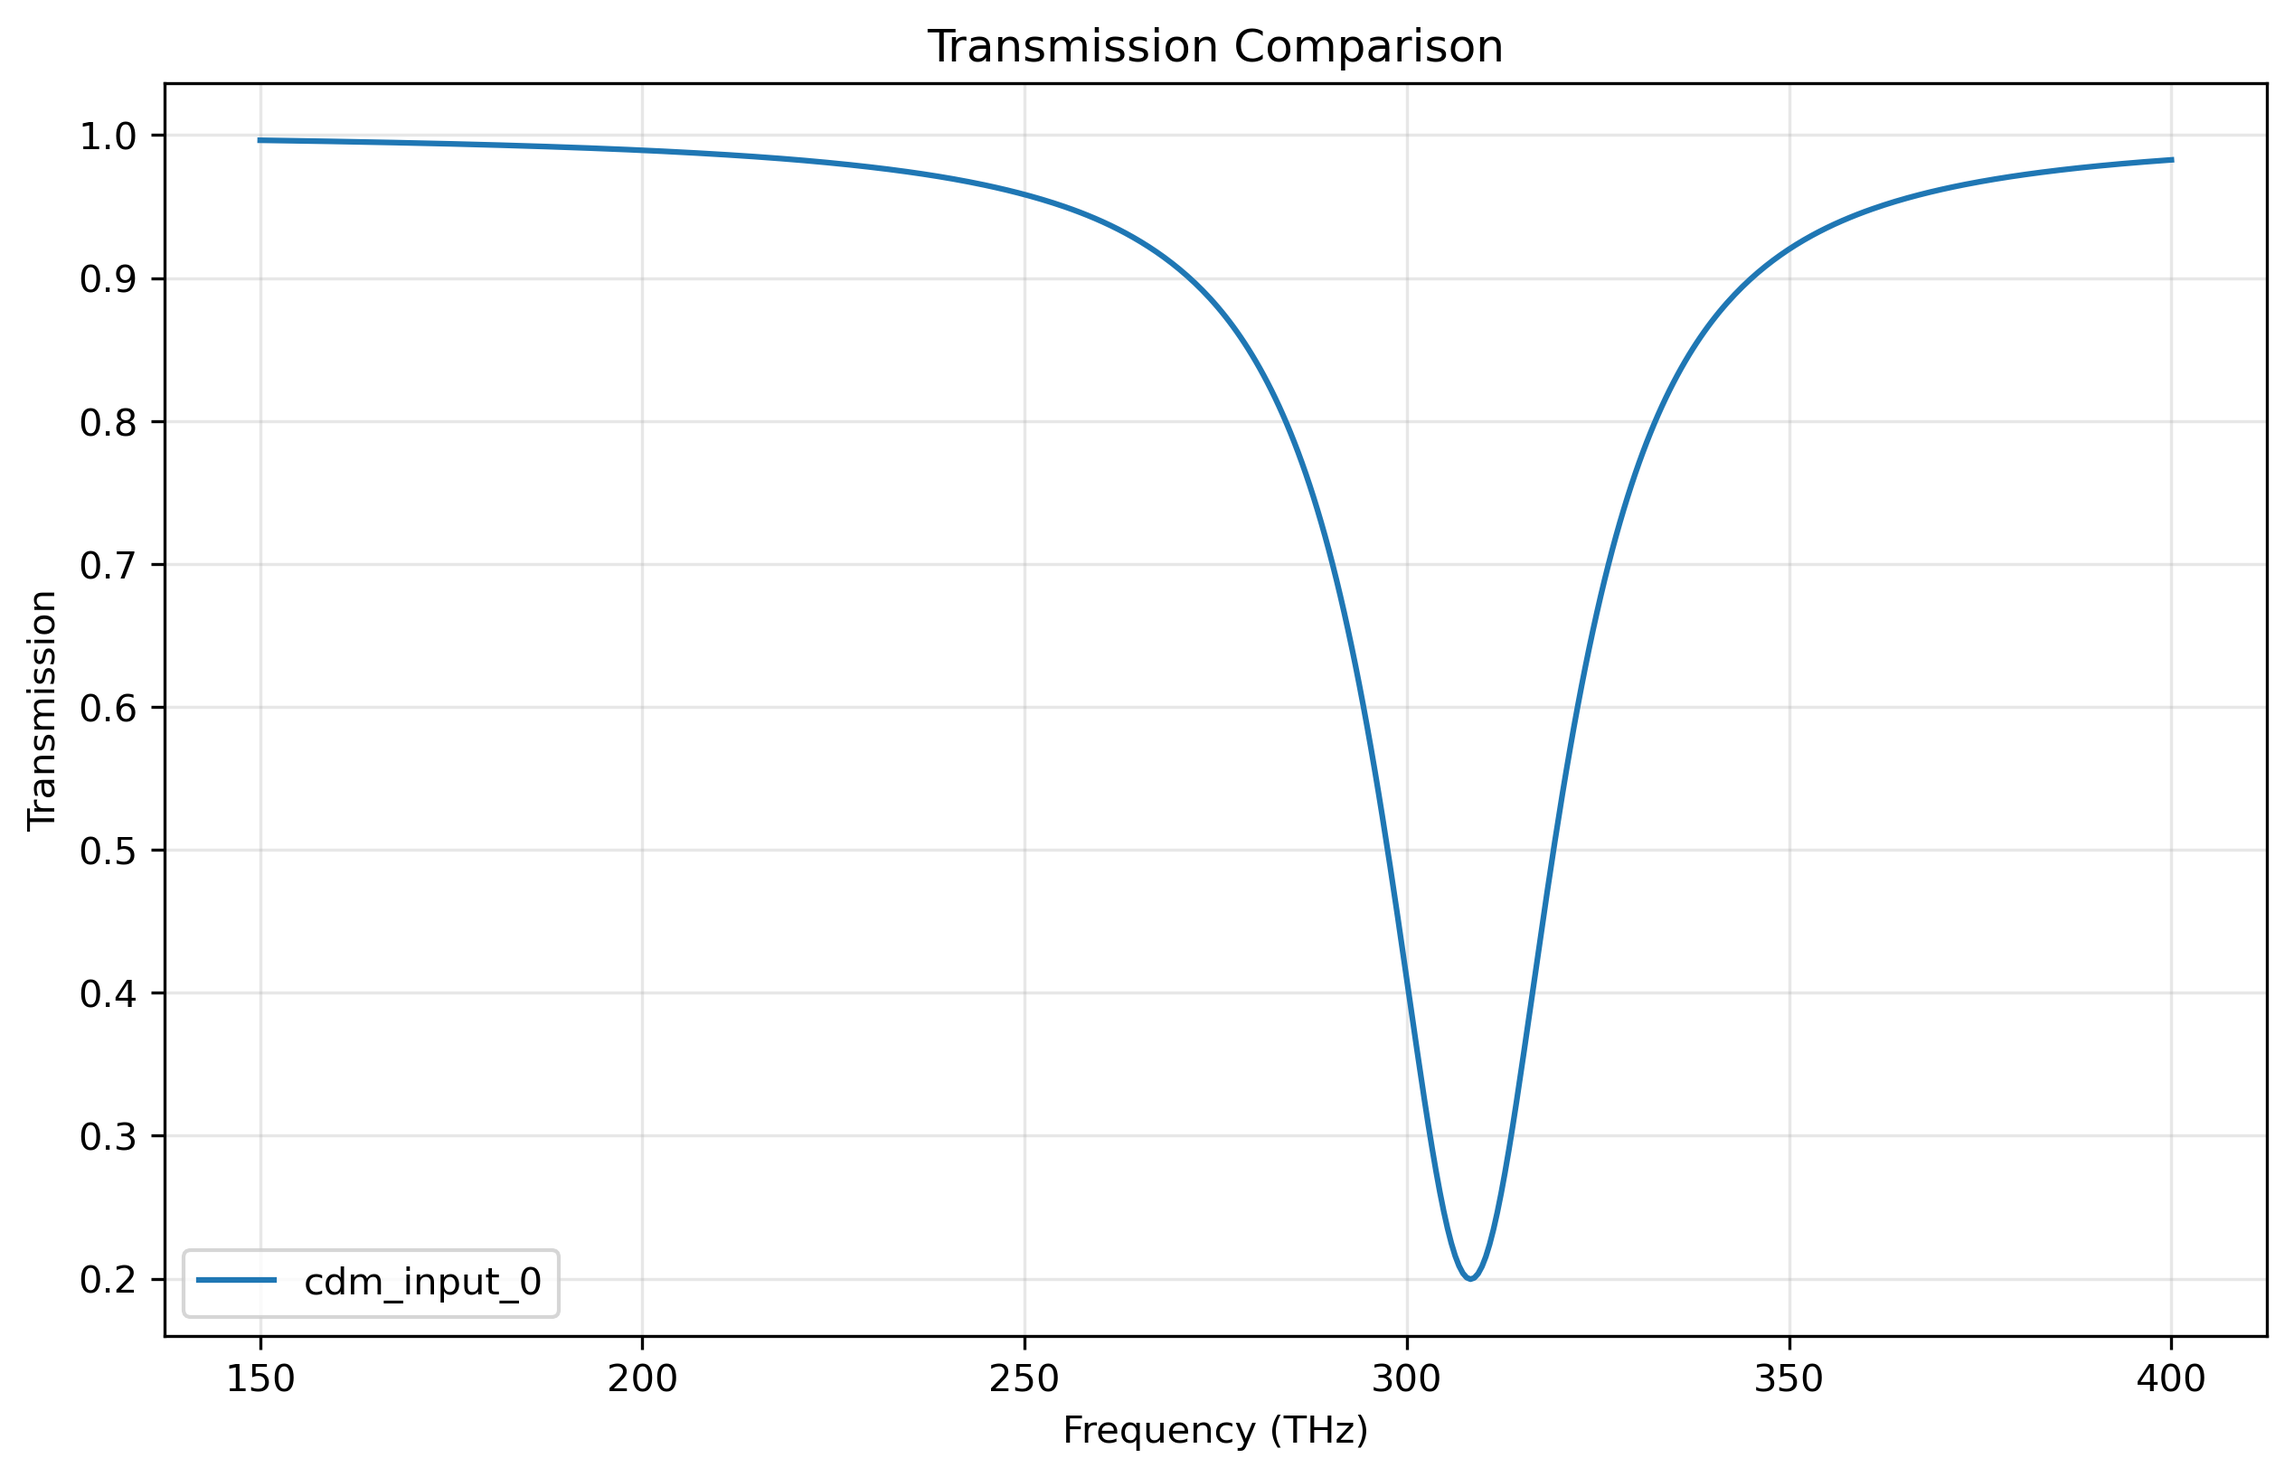
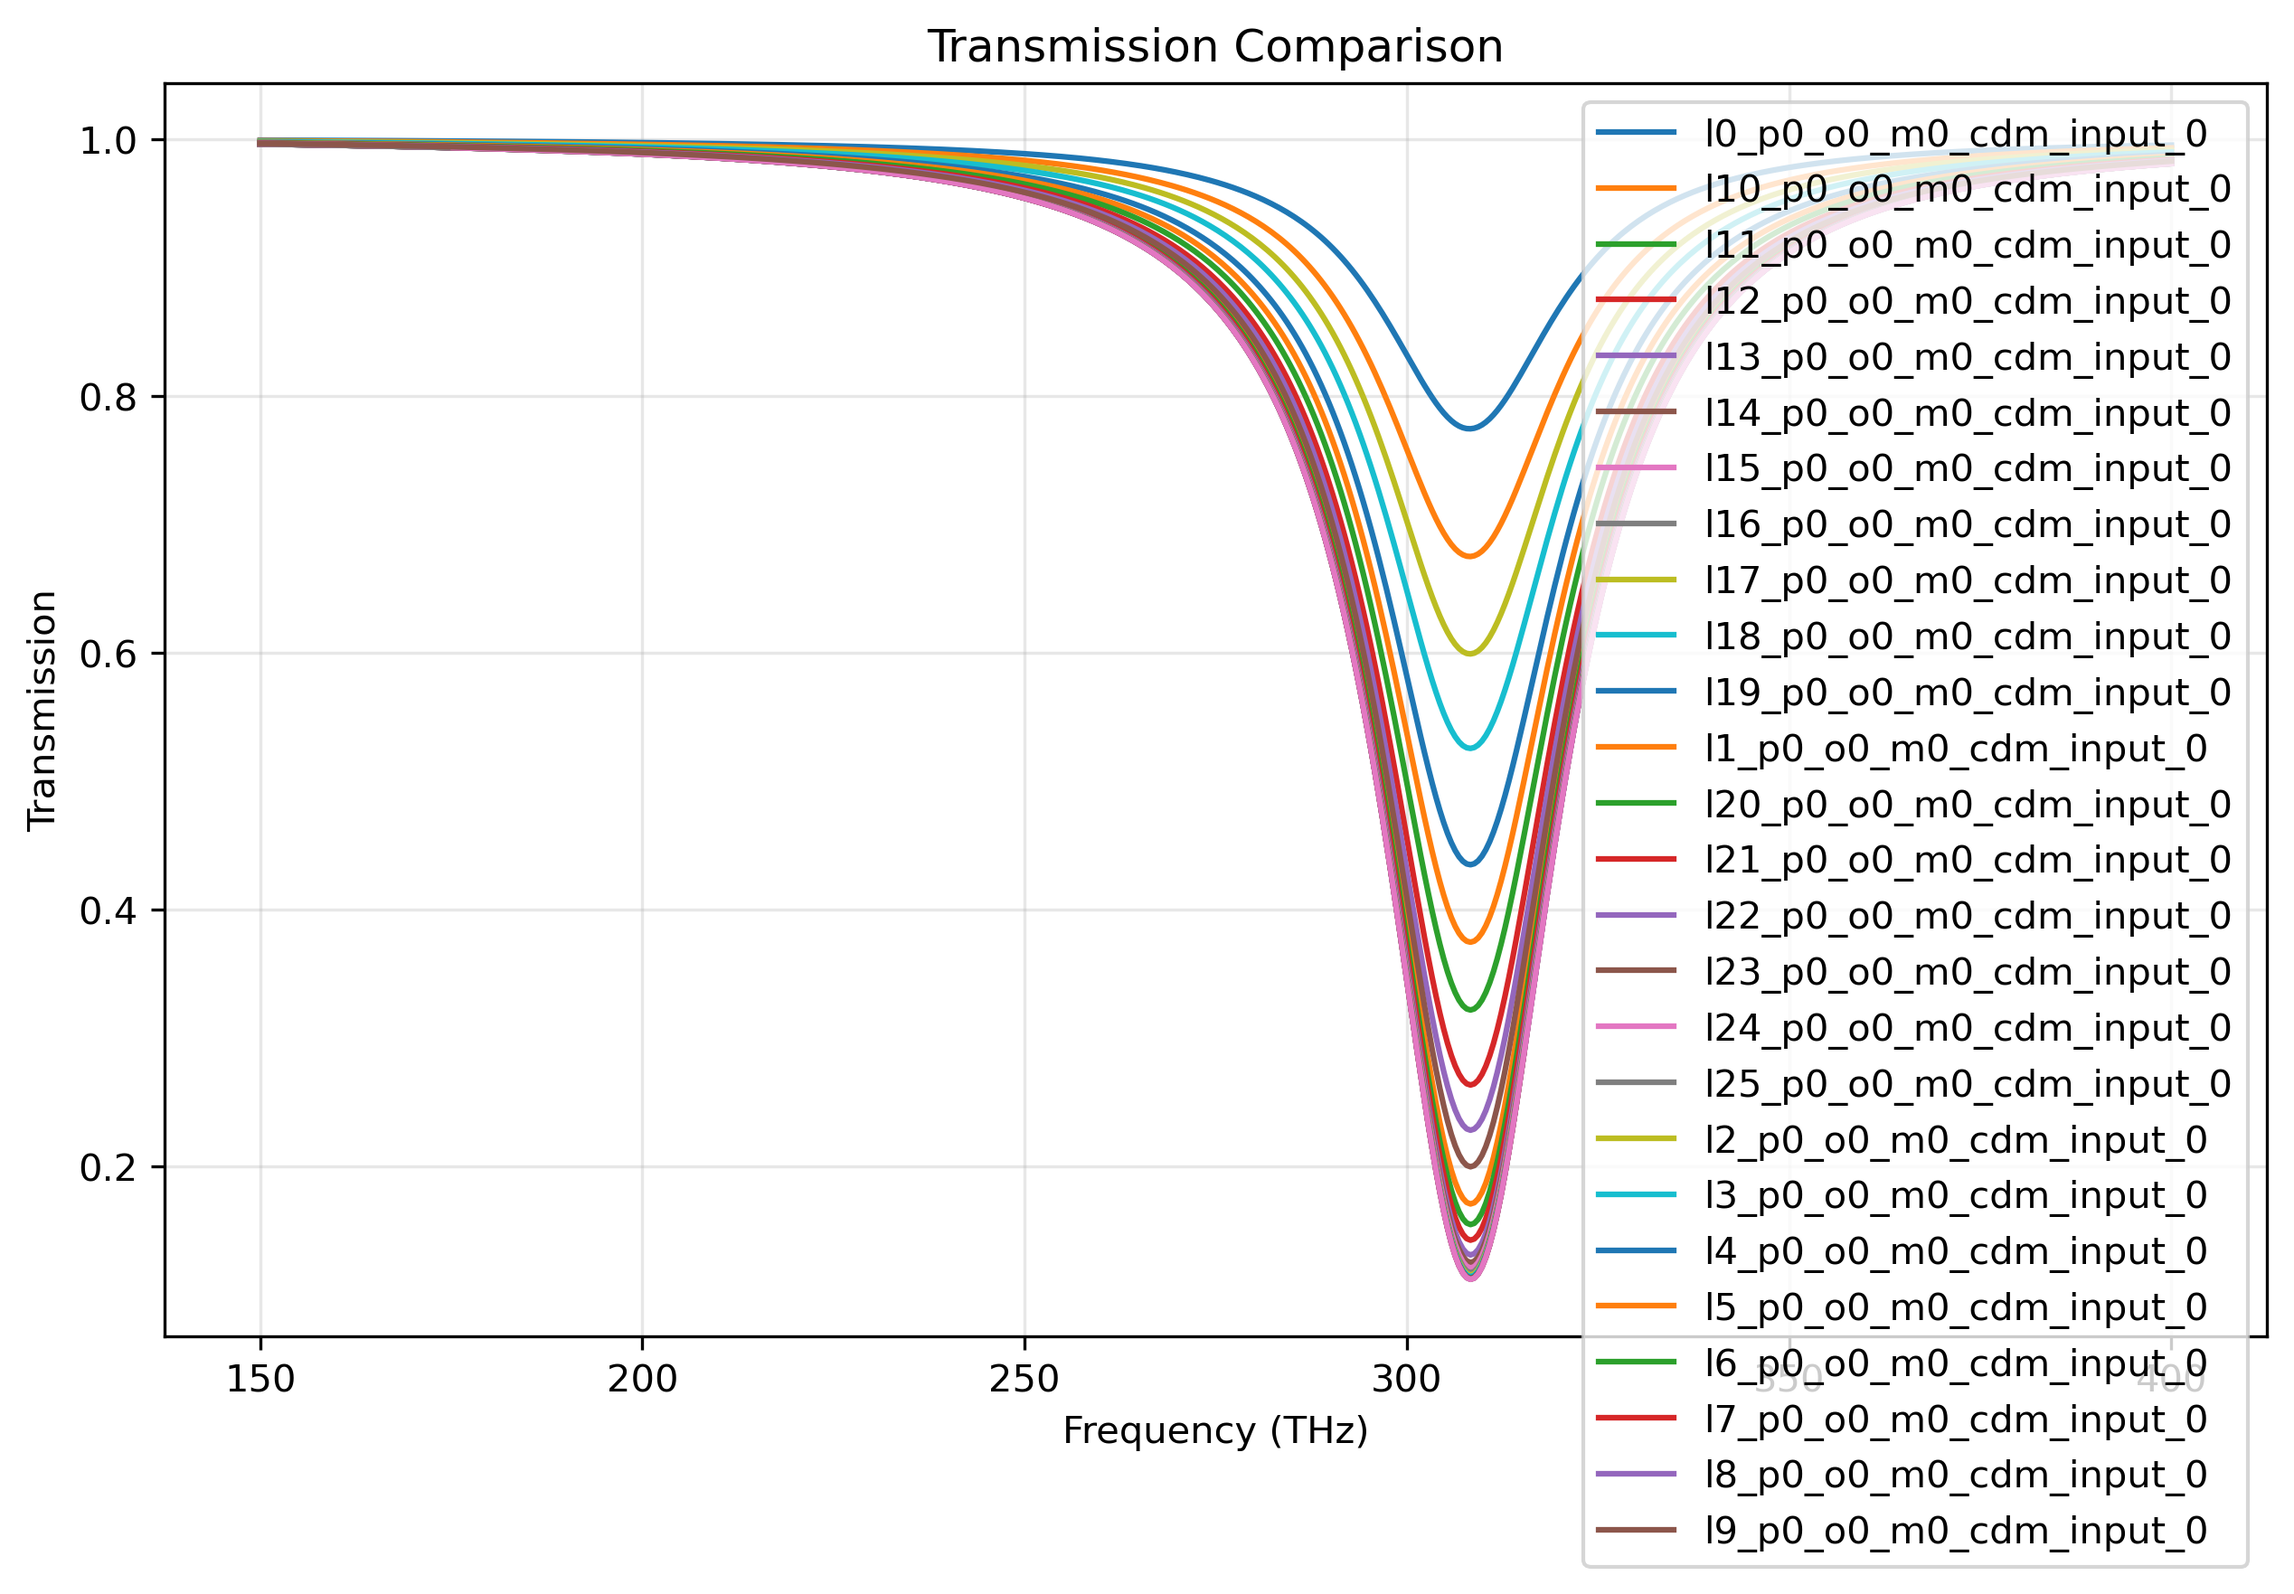
changed finite size patch params

diff --git a/parameter_generator/cdm_params_finitesize.py b/parameter_generator/cdm_params_finitesize.py
@@ -172,7 +172,7 @@ if __name__ == "__main__":
     ab_y = np.array([xyi.imag for xyi in ab_xy_data])
 
 
-    lattice_spacing = 300e-9  # 300nm 
+    lattice_spacing = 200e-9  # 300nm 
 
     # print("area m^2", start_physical_size**2)
     # input()
@@ -193,12 +193,11 @@ if __name__ == "__main__":
         # 'u-shape-29': 'u-shape-29-cdm-param.csv'
     }
 
-    lattice_sizes = np.arange(5, 31) * 1e-6  # in meters
+    lattice_sizes = np.arange(5, 20, 2) * 1e-6  # in meters
 
     # Dictionary to store all lattice types
     lattices = {
-        i: ('square', create_centered_square_lattice(lattice_spacing, size))
-    for i, size in enumerate(lattice_sizes)1 1
+        i: ('square', create_centered_square_lattice(lattice_spacing, size)) for i, size in enumerate(lattice_sizes)
     }
     M_OFFSET = 0
 
